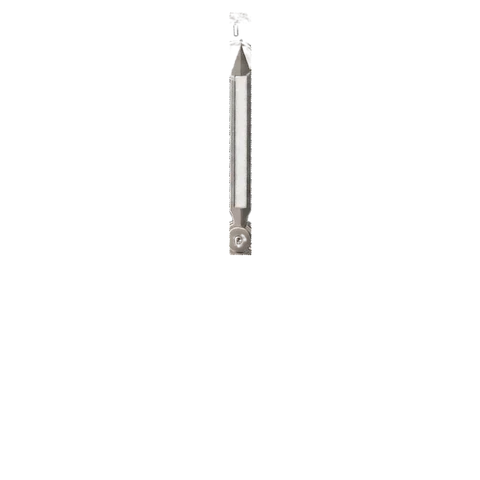
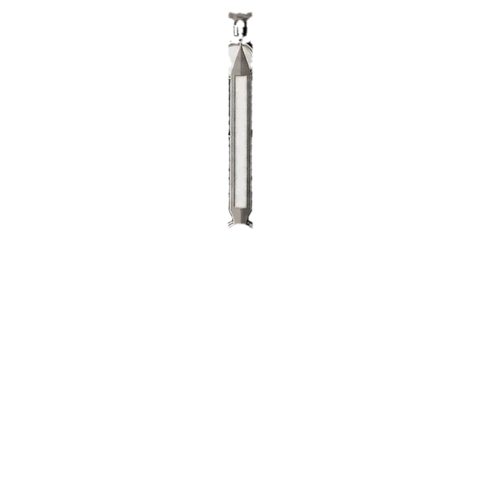
Vetrina: lancette del Submariner ritagliate meglio (sagoma piena e simmetrica, perno più grande)
Claude-Session: https://claude.ai/code/session_01NCWZ2EgAfWjoZpzfAus64N

Changed region(s): [[0.4688, 0.0, 0.5312, 0.3125], [0.4688, 0.4062, 0.5312, 0.5312]]

diff --git a/src/components/LiveHands.tsx b/src/components/LiveHands.tsx
@@ -90,7 +90,8 @@ export default function LiveHands({ style, run, beats = 8, sprites }: { style: H
             <circle cy={-0.6} r={0.048} fill={LUME} stroke="#d9dde1" strokeWidth={0.016} />
             <rect x={-0.016} y={0.12} width={0.032} height={0.12} rx={0.01} fill={STEEL} />
           </g>
-          <circle r={0.05} fill={STEEL} stroke="rgba(0,0,0,0.35)" strokeWidth={0.008} />
+          <circle r={0.075} fill={STEEL} stroke="rgba(0,0,0,0.4)" strokeWidth={0.01} />
+          <circle r={0.028} fill="#6d7277" />
         </g>
       </svg>
     </span>
